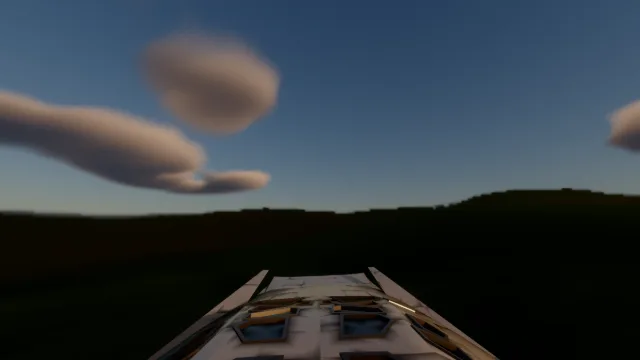
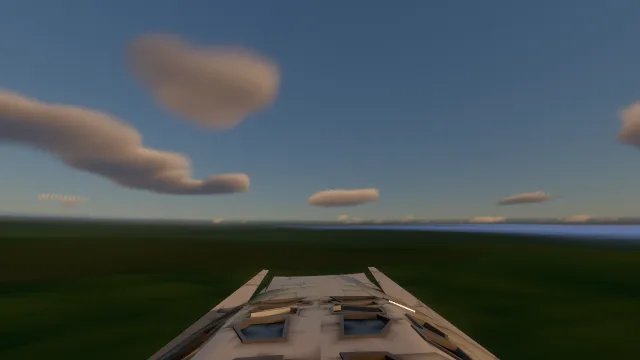
fix(scenes): the Earth's scenes the real relief had broken
All 17 Earth scenes were compared before the new relief (934d5c7) and
now, on the same headless GPU: the converged picture, the realtime GPU
time and the time until the view is ready. Three no longer worked.

- Total eclipse over Burgos: the hills that filled the foot of the frame
  were the noise's. The real Meseta is flat and lay below the frame, so
  the scene showed sky only. The view is now 4° under the Sun (no longer
  following it), with the horizon at its foot.
- Full Moon rising over the Andes: the Moon was behind the Andes' crest,
  which stands 5° up from Santiago. It was already hidden before, on the
  old map's crest; now the scene is 45 minutes later, the Moon just clear
  of the snowy crest.
- The Himalaya from orbit: the plateau, at its true ~4 800 m, sat under
  the cloud map's fixed deck 6 km up, and its ranges were lost under
  puffs. The scene is now without clouds.

Uluru gains the rock itself. Brittany loses its invented hill and shows
the sea in the distance. Atacama trades the noise's jagged peaks for the
plateau round Paranal. The seven orbital and telephoto scenes are
unchanged. Seven gallery pictures were retaken.

GPU, same version with the tiles on and off: the ground scenes are as
fast or faster with them, since the noise's octaves are skipped
(Brittany 151–156 against 169–176, the first quarter 67–92 against
168–207, in ms × block²). Orbit is neutral (Japan, the Amazon), except
[…]

diff --git a/src/settings.ts b/src/settings.ts
@@ -538,14 +538,17 @@ export const presets: Record<string, Preset> = {
   "Earth: the night side, Japan's lights": { ...EARTH_VIEW, target: "earth", time: T0 + 14 * DAY, pose: { at: [35, 137], altKm: 800, look: "earth", off: [0, 40] } },
   // the Himalaya from 400 km over the Ganges plain, looking north at the range, the afternoon Sun 11° up
   // there: the ridges in relief, their snow, their shadows
-  "Earth: the Himalaya from orbit": { ...EARTH_VIEW, target: "earth", fov: 50, time: T0 - 0.1931 * DAY, pose: { at: [24.5, 86.9], altKm: 400, look: "earth", off: [0, 45] } },
+  // (no clouds: the map's, on its fixed deck 6 km up, covered the plateau now at its true ~4 800 m)
+  "Earth: the Himalaya from orbit": { ...EARTH_VIEW, target: "earth", fov: 50, earthClouds: 0, time: T0 - 0.1931 * DAY, pose: { at: [24.5, 86.9], altKm: 400, look: "earth", off: [0, 45] } },
   // Santiago, the Sun setting behind the coast range: the auto exposure on the glow
   // the total eclipse of 12 August 2026 from Burgos, half a minute before the Moon's shadow arrives —
   // totality 18:28:10 – 18:29:51 UTC here, the Sun 9° up in the west-northwest: the sky's darkening, the
   // diamond ring, the corona, the horizon's glow all round (DE440; the NASA path within a kilometre)
+  // (the view 4° under the Sun: the Meseta's real horizon, flat, in the frame — the drawn hills that filled
+  // its foot are gone)
   "Earth: total eclipse over Burgos, 12 Aug 2026": {
-    ...EARTH_VIEW, ship: false, target: "sun", lookAt: true, fov: 12, earthClouds: 0, time: (Date.UTC(2026, 7, 12, 18, 27, 40) - Date.UTC(2067, 0, 1)) / 1000 / 492.5490947,
-    pose: { at: [42.34, -3.7], look: "sun" },
+    ...EARTH_VIEW, ship: false, target: "sun", lookAt: false, fov: 12, earthClouds: 0, time: (Date.UTC(2026, 7, 12, 18, 27, 40) - Date.UTC(2067, 0, 1)) / 1000 / 492.5490947,
+    pose: { at: [42.34, -3.7], look: "sun", off: [0, -4] },
   },
   // the same eclipse from 3 000 km over the Labrador Sea, the Sun behind the camera: the Moon's shadow on the
   // clouds west of Iceland at greatest eclipse (17:45:56 UTC, γ 0.8977), the penumbra dimming the Arctic
@@ -555,8 +558,9 @@ export const presets: Record<string, Preset> = {
     pose: { at: [52, -40], altKm: 3000, aim: [65.2, -25.2], off: [0, 3] },
   },
   "Earth: sunset over the Andes": { ...EARTH_VIEW, target: "sun", fov: 50, time: T0 + 0.358 * DAY, pose: { at: SANTIAGO, look: "sun", off: [0, 6] } },
-  // Santiago, a quarter of an hour later: the full Moon rising over the Andes (a telephoto)
-  "Earth: full Moon rising over the Andes": { ...EARTH_VIEW, target: "moon", fov: 10, time: T0 + 0.3945 * DAY, pose: { at: SANTIAGO, look: "moon", off: [0, -2] } },
+  // Santiago, an hour after sunset: the full Moon just clear of the Andes (their crest 5° up from the city —
+  // a quarter of an hour after sunset it was still behind them) (a telephoto)
+  "Earth: full Moon rising over the Andes": { ...EARTH_VIEW, target: "moon", fov: 10, time: T0 + 0.3945 * DAY + (45 / 1440) * DAY, pose: { at: SANTIAGO, look: "moon", off: [0, -2] } },
   // Mont Blanc at dusk, 18 January: a two-day-old Moon, 4 % lit, 12° up (a telephoto)
   "Earth: crescent Moon at dusk over the Alps": { ...EARTH_VIEW, target: "moon", fov: 7, time: T0 + 17.071 * DAY, pose: { at: [45.83, 6.86], look: "moon" } },
   // Aconcagua at dusk, 23 January: the first quarter, 34° up (a telephoto)

diff --git a/src/ui/schema.ts b/src/ui/schema.ts
@@ -1041,7 +1041,7 @@ export const PRESET_INFO: Record<string, { title?: string; description: string; 
   "Earth: total eclipse over Burgos, 12 Aug 2026": { title: "Total eclipse over Burgos", description: "12 August 2026, the Sun low over Castile: the Moon's shadow sweeps in, 1 min 42 s of totality — the corona, the prominences, the horizon's glow all round (JPL's DE440 ephemeris).", icon: "◯", group: "earth" },
   "Earth: the Moon's shadow from orbit, 12 Aug 2026": { title: "The Moon's shadow from orbit", description: "12 August 2026 at greatest eclipse, from 3 000 km over the Labrador Sea: the umbra, 290 km across, darkens the clouds west of Iceland, the penumbra dims the whole Arctic around it (JPL's DE440 ephemeris).", icon: "◐", group: "earth" },
   "Earth: sunset over the Andes": { title: "Sunset over the Andes", description: "Santiago, the Sun going down behind the coast range: the glow, the sky darkening upwards.", icon: "☀", group: "earth" },
-  "Earth: full Moon rising over the Andes": { title: "Full Moon over the Andes", description: "A quarter of an hour after sunset, the full Moon rising over the Andes, reddened, crossed by far clouds (a telephoto).", icon: "●", group: "earth" },
+  "Earth: full Moon rising over the Andes": { title: "Full Moon over the Andes", description: "An hour after sunset, the full Moon just clear of the Andes' snowy crest, reddened in the evening's haze (a telephoto).", icon: "●", group: "earth" },
   "Earth: crescent Moon at dusk over the Alps": { title: "Crescent over the Alps", description: "Mont Blanc at dusk: a two-day-old Moon, 4 % lit, low over the afterglow (a telephoto).", icon: "☽", group: "earth" },
   "Earth: first quarter over the Andes": { title: "First quarter", description: "Aconcagua at dusk: the half Moon 34° up, its seas, the deep blue of the evening (a telephoto).", icon: "◑", group: "earth" },
   "Earth: moonlit night at Uluru": { title: "Moonlit night at Uluru", description: "Midnight in the desert under the full Moon: silvered clouds, the red ground, the stars through the blue.", icon: "☾", group: "earth" },
